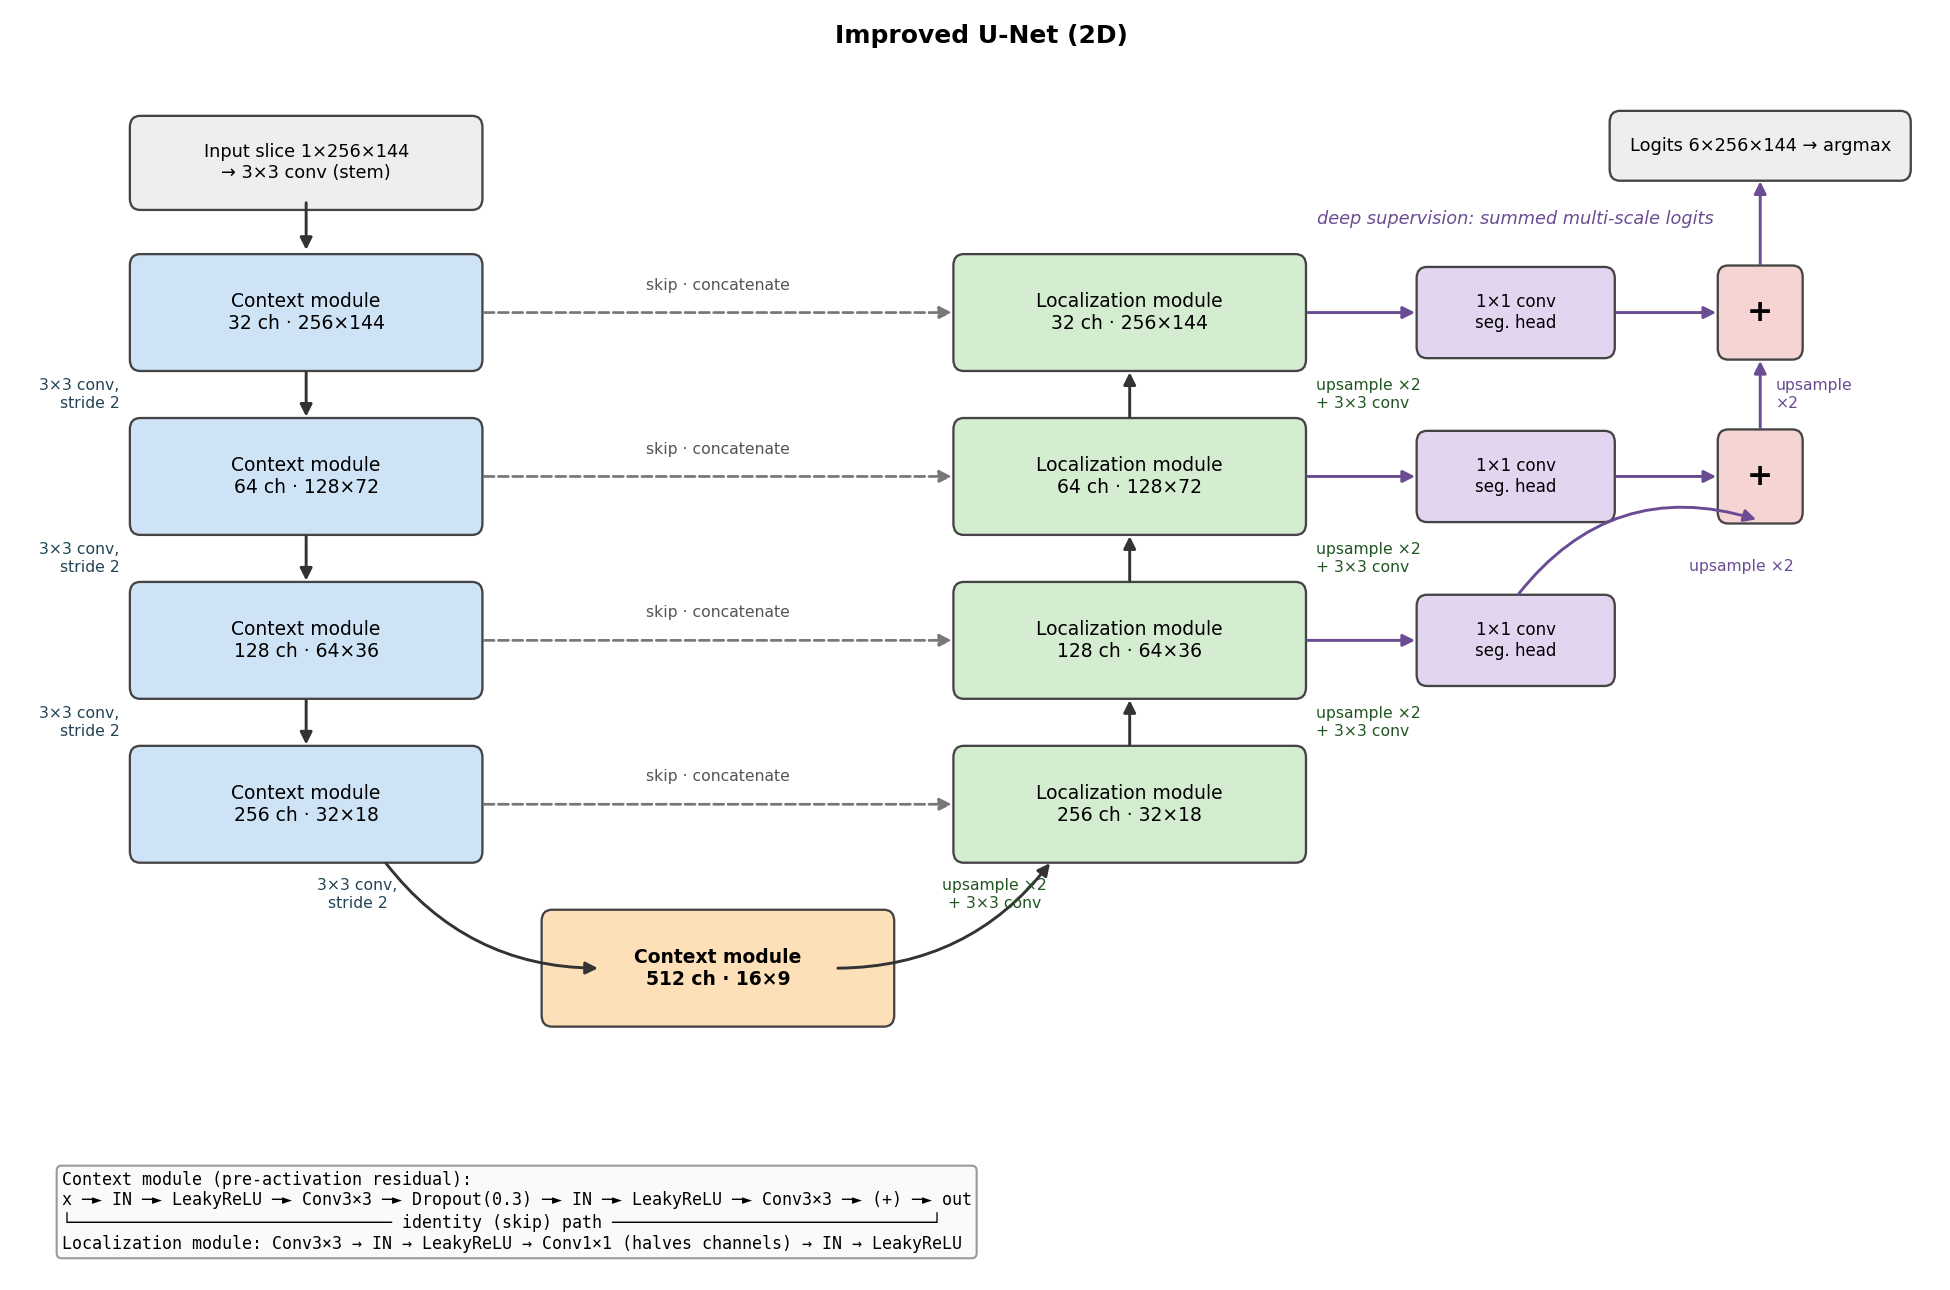
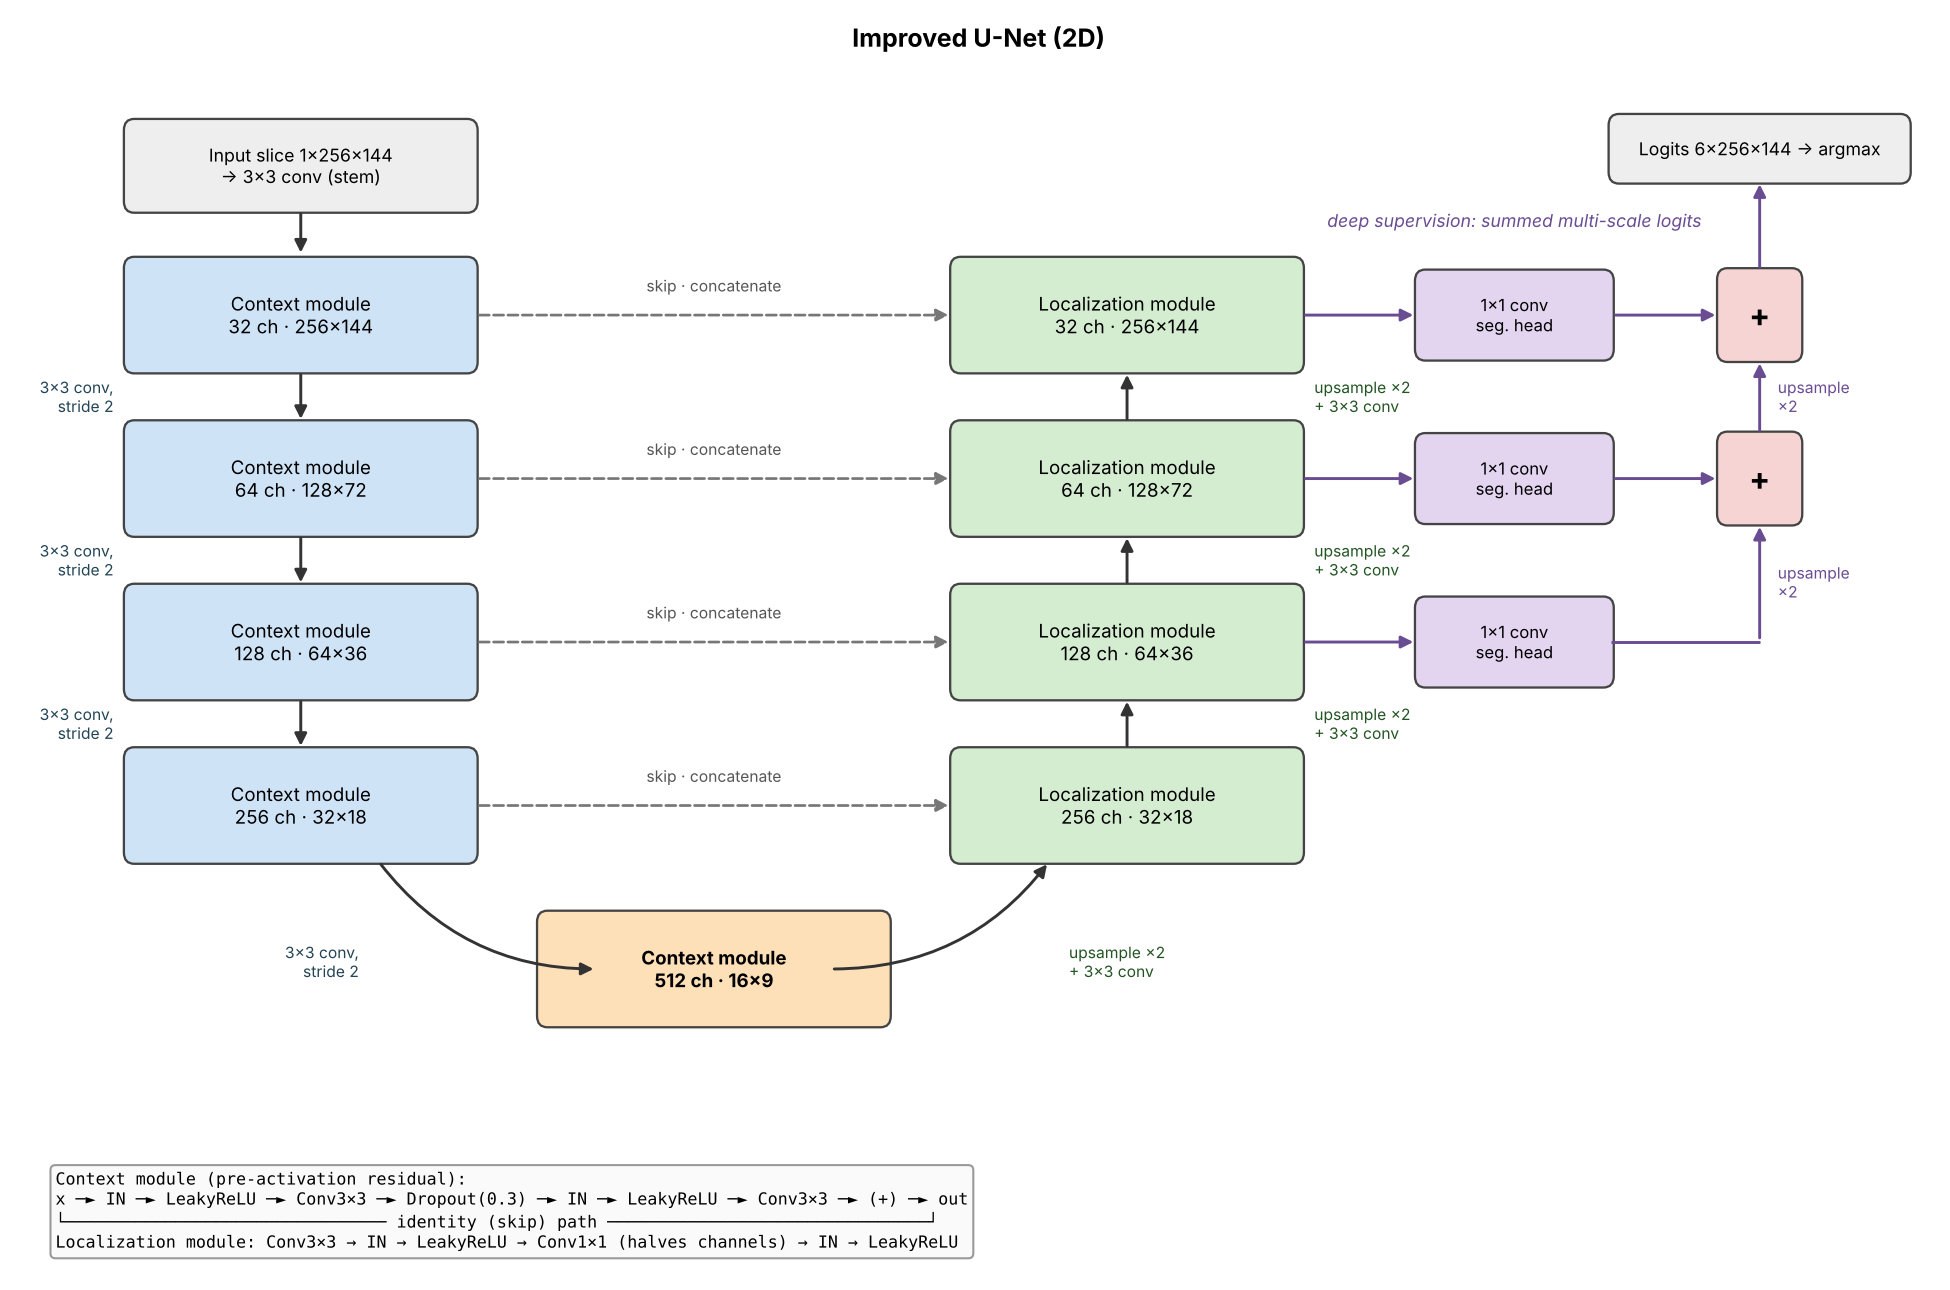
Fix more incorrect figure labels and minor formatting tweaks

diff --git a/recognition/Improved_UNet_s4801948/README.md b/recognition/Improved_UNet_s4801948/README.md
@@ -268,7 +268,7 @@ Both models sit far inside the operating budget. The improved model is smaller a
 </p>
 <p align="center"><em>Figure 6. The test slices with the lowest prostate Dice.</em></p>
 
-Figure 7 shows the worst failure cases of the Improved model. Note that each of these cases represents totally missing the prostate as opposed to a bad outline. All of these occur in cases where the prostate is very small in the image and therefore easy to miss. While this is inconvenient for the contourer, it is much less dangerous than potential boundary errors that involve significant leakage of prostate pixels into surrounding areas. Note also from the confusion matrix in figure 5 that any misclassified prostate pixels are always classified as `body` and never as `rectum` or `bladder`. Since these examples were all caused by missing the prostate, which leads to
+Figure 6 shows the worst failure cases of the Improved model. Note that each of these cases represents totally missing the prostate as opposed to a bad outline. All of these occur in cases where the prostate is very small in the image and therefore easy to miss. While this is inconvenient for the contourer, it is much less dangerous than potential boundary errors that involve significant leakage of prostate pixels into surrounding areas. Note also from the confusion matrix in figure 5 that any misclassified prostate pixels are always classified as `body` and never as `rectum` or `bladder`. Since these examples were all caused by missing the prostate, which leads to
 a prostate Dice of 0, we will also examine false positive cases for the prostate class.
 
 <p align="center">
@@ -276,11 +276,11 @@ a prostate Dice of 0, we will also examine false positive cases for the prostate
 </p>
 <p align="center"><em>Figure 7. False positive cases for the prostate class.</em></p>
 
-Figure 8 displays all five cases where the model predicted prostate pixels but none existed in the ground truth for the slice. Four are patient 40 at slices 53–54 in weeks 0 and 3, next to the rectum, and the same slices recur across weeks, which points to a consistent anatomical trigger, not noise. Once again, this tool is just proposed as an assistant, so an experienced contourer should be able to correct cases like this at minimal inconvenience due to their rarity.
+Figure 7 displays all five cases where the model predicted prostate pixels but none existed in the ground truth for the slice. Four are patient 40 at slices 53–54 in weeks 0 and 3, next to the rectum, and the same slices recur across weeks, which points to a consistent anatomical trigger, not noise. Once again, this tool is just proposed as an assistant, so an experienced contourer should be able to correct cases like this at minimal inconvenience due to their rarity.
 
 ### Recommendation to the project manager
 
-**Build the contouring prototype on the plain 2D U-Net.** On this evidence the Improved U-Net adds no accuracy where it matters (the apex and base thirds, and leakage at the organ interfaces) and the baseline already meets every acceptance criterion at about 2.6 GB of VRAM, about half an hour of training and about 2 ms per slice. Neither model came close to any resource limit, so cost is not the deciding factor here. The Improved U-Net adds nothing of value.
+Build the contouring prototype on the plain 2D U-Net. On this evidence the Improved U-Net adds no accuracy where it matters (the apex and base thirds, and leakage at the organ interfaces) and the baseline already meets every acceptance criterion at about 2.6 GB of VRAM, about half an hour of training and about 2 ms per slice. Neither model came close to any resource limit, so cost is not the deciding factor here. The Improved U-Net adds nothing of value.
 
 **Table 4. Trade-off synthesis.**
 
